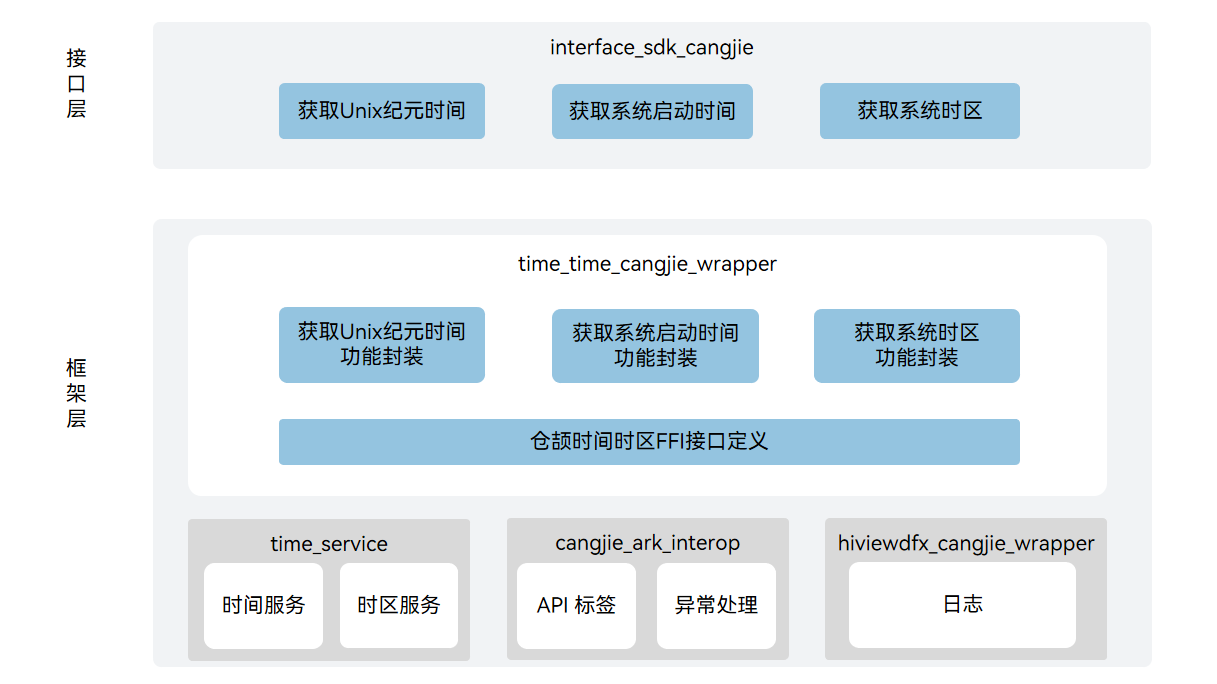
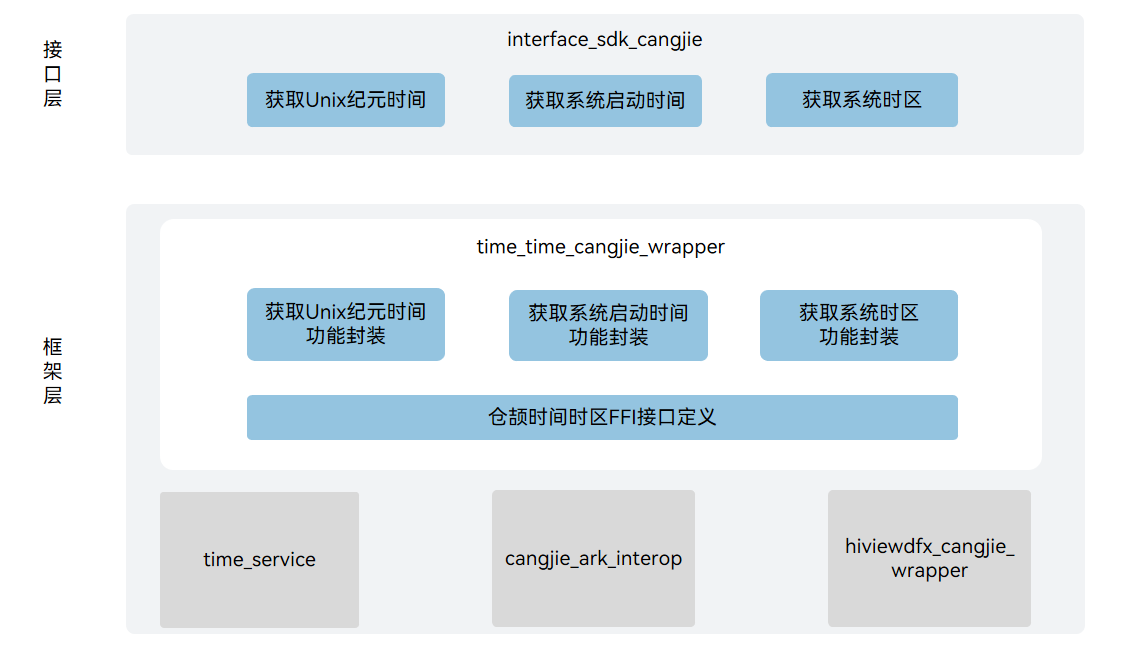
fix readme

diff --git a/README.md b/README.md
@@ -1,66 +1,89 @@
-# time_cangjie_wrapper
+# Time Zone Cangjie Interface
 
 ## Introduction
 
-The time_cangjie_wrapper is a Cangjie API encapsulated on OpenHarmony based on the capabilities of the time and time zone subsystem. The time and time zone subsystem provides OpenHarmony with the capability of managing the system time, time zone, and timing.
+The Time Zone Cangjie Interface is a Cangjie API provided by the time zone subsystem of OpenHarmony that offers time and time zone related capabilities. The time zone subsystem provides OpenHarmony system with the ability to manage system time, time zones, and timing, including:
 
-- **Time and time zone management**
-  Manages the system time and time zone in a unified manner, including setting and obtaining the system time, date, and time zone, and obtaining the system startup time.
-- **Timing management**
-  Provides the system timer capability, including creating, starting, stopping, and destroying timers. There are three types of timers: system startup timer, system time timer, and wakeup timer.
+- **Time Zone Management**
+  Unified management of system time and time zones, including setting/getting system time, date, time zone, and providing system boot time.
 
-The current time and time zone Cangjie interface supports standard devices and only provides the ability to obtain the time and time zone.
+- **Timing Capabilities**
+  Provides system timer capabilities, including timer creation, start, stop, and destruction. Three types of timers are provided: system boot time-based timer, system current time-based timer, and wake-up timer.
+
+The current Time Zone Cangjie Interface supports standard devices and only provides the ability to get time and time zone information.
 
 ## System Architecture
 
-**Figure 1** Architecture of the time_cangjie_wrapper
+**Figure 1** Time Zone Cangjie Interface Architecture Diagram
 
 !["Architecture of the time_cangjie_wrapper"](figures/time_cangjie_wrapper_architecture_en.png )
 
-As depicted in the architecture diagram:
+As shown in the architecture diagram:
 
-- get  time since the Unix epoch: Provides an interface to obtain the elapsed time since the Unix epoch.
-- get time since system startup: Provides an interface to obtain the elapsed time since system startup.
-- get system time zone: Provides an interface to obtain the current system timezone.
-- Cangjie timing and time FFI interface definition: Responsible for defining the C language interoperability interface called by the Cangjie language, used to implement Cangjie's time zone capabilities.
-- time_service: Responsible for providing basic timezone functionality, encapsulating C  language interfaces for Cangjie interoperability.
-- cangjie_ark_interop: Responsible for providing Cangjie annotation class definitions for labeling APIs, and providing the BusinessException class definition thrown to users.
-- hiviewdfx_cangjie_wrapper: Responsible for providing log interfaces for printing logs at key paths.
+Interface Layer
+
+* Get Unix Epoch Time: Provides an interface to get the elapsed time since the Unix epoch.
+* Get System Boot Time: Provides an interface to get the elapsed time since system boot.
+* Get System Time Zone: Provides an interface to get the current system time zone.
+
+Framework Layer
+
+- Encapsulates and adapts the underlying task capabilities, providing standardized functional support for the interface layer, including:
+  
+  * Get Unix Epoch Time Function Encapsulation
+  
+  * Get System Boot Time Function Encapsulation
+  
+  * Get System Time Zone Function Encapsulation
+
+- Cangjie Time Zone FFI Interface Definition: Responsible for defining C language interoperability interfaces called by the Cangjie language to implement Cangjie time zone capabilities.
+
+- time_service: Responsible for providing basic time zone functions, encapsulating C language interfaces for Cangjie interoperability.
+
+- cangjie_ark_interop: Responsible for providing Cangjie annotation class definitions for API annotation, and providing BusinessException exception class definitions thrown to users.
+
+- hiviewdfx_cangjie_wrapper: Responsible for providing log interfaces for printing logs at critical paths.
 
 ## Directory Structure
 
 ```
 base/time/time_cangjie_wrapper
-├── figures                     # architecture pictures 
+├── figures                     # Stores architecture diagrams in README
 ├── ohos
-│   └── system_date_time        # Cangjie Time and Time Zone Subsystem code
+│   └── system_date_time        # Cangjie time zone interface implementation
 └── test
-    └── system_date_time        # Cangjie Time and Time Zone Subsystem test code
+    └── system_date_time        # Cangjie time zone interface test code
 ```
 
-## Instructions For Use
+## Usage Instructions
 
-- The following time manage functions are provided:
-  
-  - Get the time elapsed from the Unix era to the current system time
-  - Get the time elapsed since the system startup
-  - Get the system time zone
+Provides the following time and time zone functions:
 
-- Compared with the API capabilities provided by ArkTS, the following functions are temporarily not supported:
-  
-  - Set the system time zone
-  - Create/start/Stop/destroy timers
+- Get the elapsed time from Unix epoch to current system time
+- Get the elapsed time since system boot
+- Get system time zone
 
-- For the time manage APIs, please refer to [time and time zone API reference](https://gitcode.com/openharmony-sig/arkcompiler_cangjie_ark_interop/blob/master/doc/API_Reference/source_en/apis/BasicServicesKit/cj-apis-system_date_time.md).
+For time and time zone related APIs, please refer to [Time Zone API Reference](https://gitcode.com/openharmony-sig/arkcompiler_cangjie_ark_interop/blob/master/doc/API_Reference/source_en/apis/BasicServicesKit/cj-apis-system_date_time.md).
 
-## Code Contribution
+## Constraints
+
+Compared to the API capabilities provided by ArkTS, the following functions are not currently supported:
+
+- Setting system time zone
+- Creating/starting/stopping/destroying timers
+
+## Contributing
 
 Developers are welcome to contribute code, documentation, etc. For specific contribution processes and methods, please refer to [Code Contribution](https://gitcode.com/openharmony/docs/blob/master/en/contribute/code-contribution.md).
 
-## Repositories Involved
+## Related Repositories
 
 [time_service](https://gitee.com/openharmony/time_time_service/blob/master/README.md)
 
 [cangjie_ark_interop](https://gitcode.com/openharmony-sig/arkcompiler_cangjie_ark_interop/blob/master/README.md)
 
 [hiviewdfx_cangjie_wrapper](https://gitcode.com/openharmony-sig/hiviewdfx_hiviewdfx_cangjie_wrapper/blob/master/README.md)
+
+
+
+

diff --git a/README_zh.md b/README_zh.md
@@ -1,8 +1,8 @@
-# 时间时区仓颉接口
+# 时间时区仓颉封装
 
 ## 简介
 
-时间时区仓颉接口是在 OpenHarmony 上基于时间时区子系统能力之上封装的仓颉API。时间时区子系统为OpenHarmony系统提供了管理系统时间时区和定时的能力，包括：
+时间时区仓颉封装是 OpenHarmony 上面向开发者提供使用仓颉语言进行应用开发时的时间时区相关能力。时间时区子系统为OpenHarmony系统提供了管理系统时间时区和定时的能力，包括：
 
 - **管理时间时区**
   统一管理系统时间时区，包括设置/获取系统时间、日期、时区，同时提供获取系统启动时间。
@@ -10,7 +10,7 @@
 - **定时能力**
   提供系统定时器能力。包括定时器创建、启动、停止和销毁。定时器类型提供三种：系统启动时间计时类定时器、系统当前时间计时类定时器、唤醒类定时器。
 
-当前时间时区仓颉接口支持standard设备，只提供获取时间时区的能力。
+当前时间时区仓颉封装支持standard设备，只提供获取时间时区的能力。
 
 ## 系统架构
 
@@ -20,10 +20,21 @@
 
 如架构图所示：
 
-- 获取Unix纪元时间：提供获取自Unix纪元以来经过时间的接口。
-- 获取系统启动时间：提供获取自系统启动以来经过时间的接口。
-- 获取系统时区：提供获取当前系统时区的接口。
+接口层
+
+- 获取Unix纪元时间：面向开发者提供获取自Unix纪元以来经过时间的能力。
+- 获取系统启动时间：面向开发者提供获取自系统启动以来经过时间的能力。
+- 获取系统时区：面向开发者提供获取当前系统时区的能力。
+
+框架层
+
+- 获取Unix纪元时间功能封装：基于底层时间时区部件提供的获取Unix纪元时间的能力，实现仓颉获取Unix纪元时间的功能
+- 获取系统启动时间功能封装：基于底层时间时区部件提供的获取系统启动时间的能力，实现仓颉获取系统启动时间的功能
+- 获取系统时区功能封装：基于底层时间时区部件提供的获取系统时区的能力，实现仓颉获取系统时区功能
 - 仓颉时间时区FFI接口定义：负责定义被仓颉语言调用的C语言互操作接口，用于实现仓颉时间时区能力。
+
+架构图中的依赖部件引入说明：
+
 - time_service：负责提供时间时区基础功能，封装C语言接口提供给仓颉进行互操作。
 - cangjie_ark_interop：负责提供仓颉注解类定义，用于对API进行标注，以及提供抛向用户的BusinessException异常类定义。
 - hiviewdfx_cangjie_wrapper：负责提供日志接口，用于在关键路径处打印日志。
@@ -41,18 +52,20 @@ base/time/time_cangjie_wrapper
 
 ## 使用说明
 
-- 提供以下时间时区功能：
-  
-  - 获取自Unix纪元以来到当前系统时间所经过的时间
-  - 获取自系统启动以来经过的时间
-  - 获取系统时区
+提供以下时间时区功能：
 
-- 与ArkTS提供的API能力相比，暂不支持以下功能：
-  
-  - 设置系统时区
-  - 创建/开启/停止/销毁 定时器
+- 获取自Unix纪元以来到当前系统时间所经过的时间
+- 获取自系统启动以来经过的时间
+- 获取系统时区
 
-- 时间时区相关API请参见[时间时区API参考](https://gitcode.com/openharmony-sig/arkcompiler_cangjie_ark_interop/blob/master/doc/API_Reference/source_zh_cn/apis/BasicServicesKit/cj-apis-system_date_time.md)。
+时间时区相关API请参见[时间时区API参考](https://gitcode.com/openharmony-sig/arkcompiler_cangjie_ark_interop/blob/master/doc/API_Reference/source_zh_cn/apis/BasicServicesKit/cj-apis-system_date_time.md)。
+
+## 约束
+
+ArkTS提供的API能力相比，暂不支持以下功能：
+
+- 设置系统时区
+- 创建/开启/停止/销毁 定时器
 
 ## 参与贡献
 
@@ -60,7 +73,7 @@ base/time/time_cangjie_wrapper
 
 ## 相关仓
 
-[time_service](https://gitee.com/openharmony/time_time_service/blob/master/README_zh.md)
+[time_service](https://gitcode.com/openharmony/time_time_service/blob/master/README_zh.md)
 
 [cangjie_ark_interop](https://gitcode.com/openharmony-sig/arkcompiler_cangjie_ark_interop/blob/master/README_zh.md)
 
